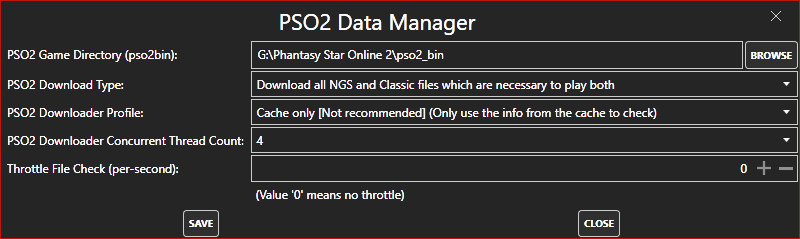
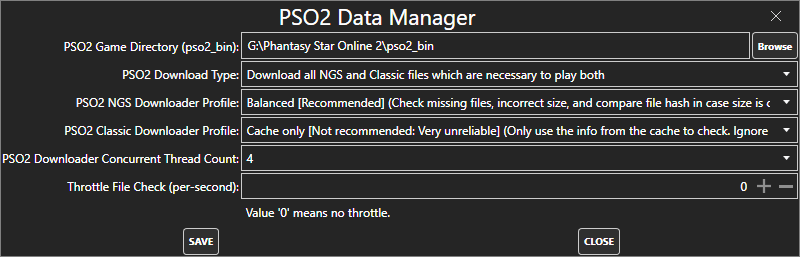
Updated README and descriptions

Changed region(s): [[0.0, 0.0, 1.0, 0.8494], [0.0, 0.8787, 1.0, 1.0], [0.9688, 0.0586, 1.0, 0.0879]]

diff --git a/README.md b/README.md
@@ -31,6 +31,8 @@ This project is just a hobby one.
       - Game start with SEGA login (Bypass user's setting).
       - Forget SEGA Login (Forget the SEGA login if user logged in with `remember the login info`).
     - Check for PSO2 updates.
+    - Scan for damaged/missing game files.
+    - Toolbox.
 - Configure PSO2 Client's options.
   - Classic options are planned.
 - Customizable RSS Feeds:
@@ -40,9 +42,11 @@ This project is just a hobby one.
 - \[BETA\] PSO2 Client Troubleshooting:
   - The feature is currently in beta, but it's not changing anything to the system or any files so it's perfectly safe to try. Any technical advices, fixes and explanations are welcomed to share, but please do so by [Creating issues](https://github.com/Leayal/PSO2-Launcher-CSharp/issues) with `label` including `enhancement`. The more you explain about how and why the problem is there, and how the fix works is valuable information.
   - Main purpose is to help player who has technical issue(s) with the game client. However, anything outside of the game client is not mentioned, such as Internet's problem, damaged OS's important files, etc...
-  - Most of results and words are "advices", it is not a 'must' to follow accordingly unless stated.
+  - Most of results and words are "advices", it is **NOT** a 'must' to follow accordingly unless stated.
 - Convenient Utilities/Toolbox:
-  - Currently, the toolbox has only `PSO2 Alpha Reactor Counter` which helps user to keep track of the amount of Alpha Reactor that user has picked up in-game. [How does it work?](Feature-Explanation.md#PSO2-Alpha-Reactor-Counter)
+  - Currently, the toolbox has only 2 items:
+    - `Alpha Reactor & Stellar Seed Counter` which helps user to keep track of the amount of Alpha Reactor and Stellar Seed that user has picked up in-game. [How does it work?](Feature-Explanation.md#PSO2-Alpha-Reactor-Counter)
+    - `PSO2 Data Organizer (BETA)` which helps user to manage the local files (E.g: Deleting PSO2 Classic, move PSO2 Classic's files to another place).
   - The toolbox is accessible via the main menu and via the quick menu if you minimize the launcher to tray.
 - Minimal JST clock:
   - The clock can be enabled/disabled in Launcher Behavior Manager dialog.
@@ -56,7 +60,8 @@ This project is just a hobby one.
 ### Launcher arguments:
 
 - `--tray`: Launch the launcher and minimize to tray immediately.
-- `--no-self-update`: Launcher the launcher without checking for self-updates. In the other words, ignore all launcher's updates.
+- `--no-self-update`: Launch the launcher without checking for self-updates. In the other words, ignore all launcher's updates.
+- `--no-self-update-prompt`: Launch the launcher and agree to update if there's any self-updates found without user's interaction.
 
 # UI Previews
 

diff --git a/Feature-Explanation.md b/Feature-Explanation.md
@@ -1,4 +1,4 @@
-# PSO2 Alpha Reactor Counter
+# PSO2 Alpha Reactor & Stellar Seed Counter
 
 - This feature works by parsing the ActionLog file which is dumped by the game itself. The log file can be located in `Documents\SEGA\PHANTASYSTARONLINE2\log_ngs`.
 - That also means:
@@ -9,6 +9,14 @@
 - The JST clock's state is sync with the launcher's setting.
   - To disable the clock, simply disable in the Launcher Behavior Manager.
   - When disabled, the Counter won't automatically reset the Alpha Reactor's pickup count when the daily spawn reset occurs. You will need to reopen the Counter window to manually reload the count.
-- Referenced files: [ToolboxWindow_AlphaReactorCount.xaml.cs](LauncherToolbox.Windows/ToolboxWindow_AlphaReactorCount.xaml.cs), [PSO2LogAsyncReader.cs](LauncherToolbox/PSO2LogAsyncReader.cs)
+
+## Notes
+
+Sometimes you may see `Stellar Seed`'s count goes beyond 10, or `Alpha Reactor`'s count goes beyond 14. These counts may be from destroying Gold Boxes (Or Yellow Crates, which has a small chance to give these items). Therefore, to confirm whether the tool has problem or not, please check the log file (files with `ActionLogYYYYmmdd_00.txt` format in the location stated above. `YYYY` is the year, `mm` is the month and `dd` is the day, month and day will have prefix 0 if it's below 10. E.g: `ActionLog20220315_00.txt`, `ActionLog20221207_00.txt`).
+
+# Referenced files:
+
+- [ToolboxWindow_AlphaReactorCount.xaml.cs](LauncherToolbox.Windows/ToolboxWindow_AlphaReactorCount.xaml.cs)
+- [PSO2LogAsyncListener.cs](LauncherToolbox/PSO2LogAsyncListener.cs)
 
 ![Dark theme preview](https://leayal.github.io/PSO2-Launcher-CSharp/imgs/preview/toolbox/alphareactorcounter-dark.png)
